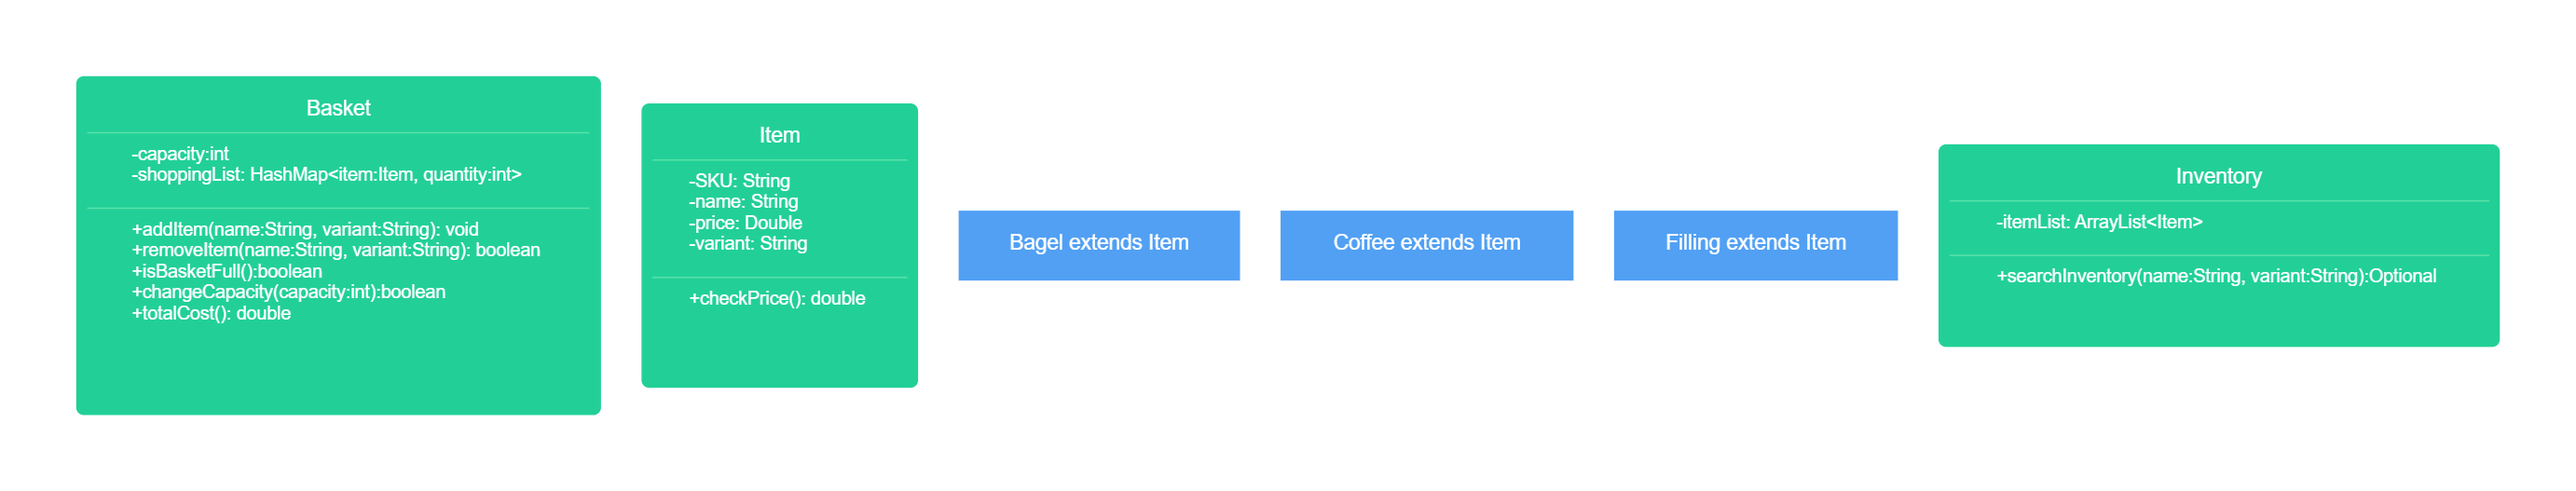
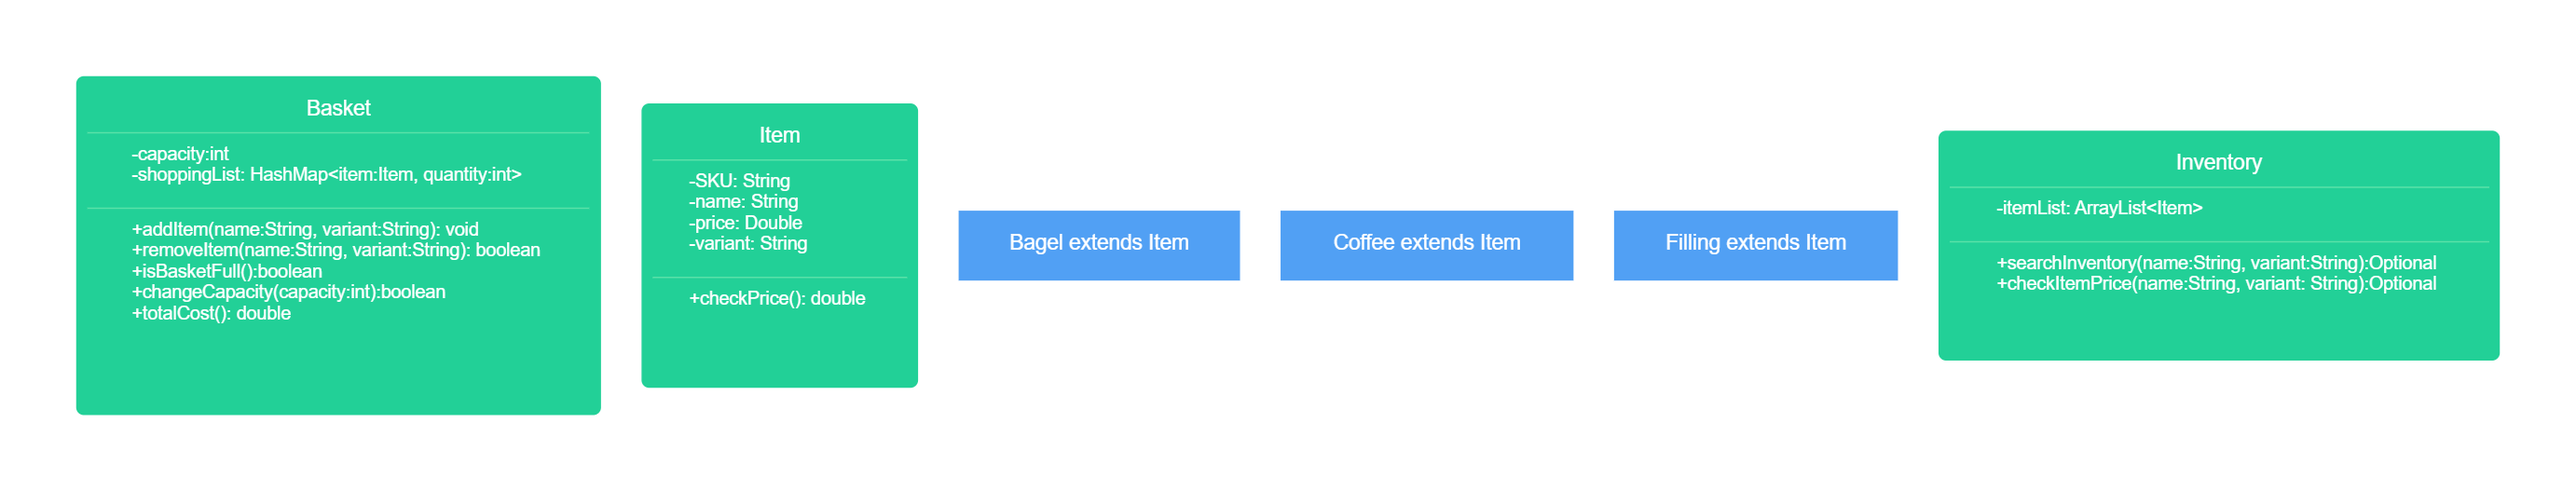
domain, class diagram fixed, test for price added

Changed region(s): [[0.7467, 0.2429, 0.9957, 0.4858], [0.7467, 0.5161, 0.9645, 0.6072], [0.7467, 0.6983, 0.9957, 0.759]]

diff --git a/src/test/java/com/booleanuk/core/BasketTest.java b/src/test/java/com/booleanuk/core/BasketTest.java
@@ -180,6 +180,15 @@ public class BasketTest {
         Assertions.assertTrue(price.isPresent());
         double DELTA = 1e-9;
         Assertions.assertEquals(0.99, price.get(), DELTA);
+
+    }
+
+    @Test
+    public void shouldNotReturnPriceForNonExistingItem(){
+
+        Optional<Double> price2 = Inventory.getItemPrice("Covfefe", "Yellow");
+        Assertions.assertFalse(price2.isPresent());
+        Assertions.assertEquals(Optional.empty(), price2);
     }
 
 }

diff --git a/domain-model.md b/domain-model.md
@@ -1,11 +1,19 @@
-| Class  | Attributes                                        | Methods                                 | Scenarios                                                               | Output  |
-|--------|---------------------------------------------------|-----------------------------------------|-------------------------------------------------------------------------|---------|
-| Basket | int capacity                                      | addItem(String name, String variant)    | user can add item to basket                                             | void    |
-|        | HashMap<Item item, Integer quantity> shoppingList | removeItem(String name, String variant) | user can remove item from basket                                        | boolean |
-|        |                                                   | isBasketFull()                          | user wants to know if the basket is full while adding new item          | boolean |
-|        |                                                   | changeCapacity(int capacity)            | user can change the capacity of basket                                  | boolean |
-|        |                                                   | totalCost()                             | user wants no know the total cost of basket                             | double  |
+##Basket
+| Class  | Attributes                                        | Methods                                 | Scenarios                                                      | Output                       |
+|--------|---------------------------------------------------|-----------------------------------------|----------------------------------------------------------------|------------------------------|
+| Basket | int capacity                                      | addItem(String name, String variant)    | user can add item to basket                                    | void : item added to map     |
+|        |                                                   |                                         | item does not exist in inventory                               | print message                |
+|        |                                                   |                                         | item exceeds capacity                                          | print message                |
+|        | HashMap<Item item, Integer quantity> shoppingList | removeItem(String name, String variant) | user can remove item from basket                               | void : item removed from map |
+|        |                                                   |                                         | item does not exist in basket                                  | print message                |
+|        |                                                   |                                         | item does not exist in inventory                               | print message                |
+|        |                                                   | isBasketFull()                          | user wants to know if the basket is full while adding new item | boolean                      |
+|        |                                                   | changeCapacity(int capacity)            | user can change the capacity of basket                         | boolean                      |
+|        |                                                   |                                         | capacity less than zero                                        | print message                |
+|        |                                                   |                                         | capacity less than number of items in a basket                 | print message                |
+|        |                                                   | totalCost()                             | user wants no know the total cost of basket                    | double                       |
 
+##Item
 | Class | Attributes     | Methods    | Scenarios                             | Output |
 |-------|----------------|------------|---------------------------------------|--------|
 | Item  | String SKU     | checkPrice | user wants to check the price of item | double |
@@ -14,31 +22,34 @@
 |       | String variant |            |                                       |        |
 |       |                |            |                                       |        |
 
-| Class | Attributes     | Methods | Scenarios | Output |
-|-------|----------------|---------|-----------|--------|
-| Bagel | String SKU     |         |           |        |
-|       | String name    |         |           |        |
-|       | double price   |         |           |        |
-|       | String variant |         |           |        |
+##Bagel
+| Class              | Attributes     | Methods | Scenarios | Output |
+|--------------------|----------------|---------|-----------|--------|
+| Bagel extends Item | String SKU     |         |           |        |
+|                    | String name    |         |           |        |
+|                    | double price   |         |           |        |
+|                    | String variant |         |           |        |
 
 
-| Class  | Attributes     | Methods | Scenarios | Output |
-|--------|----------------|---------|-----------|--------|
-| Coffee | String SKU     |         |           |        |
-|        | String name    |         |           |        |
-|        | double price   |         |           |        |
-|        | String variant |         |           |        |
+#Coffee
+| Class               | Attributes     | Methods | Scenarios | Output |
+|---------------------|----------------|---------|-----------|--------|
+| Coffee extends Item | String SKU     |         |           |        |
+|                     | String name    |         |           |        |
+|                     | double price   |         |           |        |
+|                     | String variant |         |           |        |
 
+#Filling
+| Class                | Attributes     | Methods | Scenarios | Output |
+|----------------------|----------------|---------|-----------|--------|
+| Filling extends Item | String SKU     |         |           |        |
+|                      | String name    |         |           |        |
+|                      | double price   |         |           |        |
+|                      | String variant |         |           |        |
 
-| Class   | Attributes     | Methods | Scenarios | Output |
-|---------|----------------|---------|-----------|--------|
-| Filling | String SKU     |         |           |        |
-|         | String name    |         |           |        |
-|         | double price   |         |           |        |
-|         | String variant |         |           |        |
-
-
+#Inventory
 | Class     | Attributes                | Methods                                               | Scenarios                                   | Output   |
 |-----------|---------------------------|-------------------------------------------------------|---------------------------------------------|----------|
 | Inventory | ArrayList<Item> itemsList |                                                       |                                             |          |
 |           |                           | searchInventory(String name, String variant):Optional | system searches if item exists in inventory | Optional |
+|           |                           | getItemPrice(String name, String variant): Optional   | system searches for a price of an item      | Optional |
